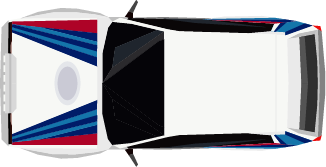
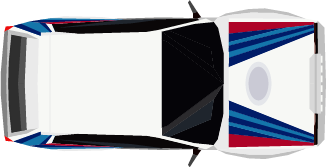
Title screen revamp

diff --git a/core/src/com/yopox/ld47/screens/Title.kt b/core/src/com/yopox/ld47/screens/Title.kt
@@ -9,38 +9,66 @@ import com.yopox.ld47.LD47
 import com.yopox.ld47.Resources
 import com.yopox.ld47.SoundManager
 import com.yopox.ld47.graphics.Button
-import com.yopox.ld47.graphics.Fonts.drawCentered
-import com.yopox.ld47.graphics.Fonts.fontTitle
 import ktx.graphics.use
+import kotlin.math.PI
+import kotlin.math.cos
+import kotlin.math.pow
+import kotlin.math.sin
 
 class Title(game: LD47) : Screen(game) {
 
     val background = Assets.getTexture(Resources.TITLE_BG)
+    val title = Assets.getTexture(Resources.TITLE_TITLE)
+    val sub = Assets.getTexture(Resources.TITLE_SUB)
+    val cars = arrayOf(Assets.getTexture(Resources.TITLE_CAR1), Assets.getTexture(Resources.TITLE_CAR2), Assets.getTexture(Resources.TITLE_CAR3))
+
+    var auto = cars.random()
+    var autoPos = -WIDTH / 2
+
+    var tick = 0
 
     init {
         buttons.add(
-                Button("START", Vector2(WIDTH / 2, HEIGHT / 4)) {
+                Button("START", Vector2(WIDTH / 2 - 120f, 100f)) {
                     game.setScreen<LevelSelection>()
+                }
+        )
+        buttons.add(
+                Button("OST", Vector2(WIDTH / 2 + 120f, 100f)) {
+                    //game.setScreen<LevelSelection>()
                 }
         )
     }
 
     override fun show() {
         super.show()
+        tick = 0
         SoundManager.play(Resources.OST_TITLE)
     }
 
     override fun render(delta: Float) {
+        tick += 1
+        autoPos += 6f + sin((autoPos + WIDTH / 2) / WIDTH * 2 * PI).toFloat() * 3f
+
         Gdx.gl.glClearColor(0.25f, 0.2f, 0.3f, 1f)
         Gdx.gl.glClear(GL30.GL_COLOR_BUFFER_BIT)
 
         batch.use { batch ->
             batch.draw(background, 0f, 0f)
+            batch.draw(title, WIDTH / 2 - title.width / 2, HEIGHT - 210f + sin(tick / 60f) * 15f)
+            batch.draw(sub, WIDTH / 2 - sub.width / 2, HEIGHT - 475f + sin(tick / 60f) * 15f)
+            batch.draw(auto, autoPos, 100f - auto.height / 2)
+
             buttons.forEach { button -> button.draw(batch) }
         }
 
         shapeRenderer.use(ShapeRenderer.ShapeType.Filled) { renderer ->
             buttons.forEach { button -> button.drawBorder(renderer) }
+        }
+
+        if (autoPos >= 3 * WIDTH / 2) {
+            auto = cars.random()
+            autoPos = -WIDTH
         }
     }
 
@@ -49,6 +77,8 @@ class Title(game: LD47) : Screen(game) {
     override fun keyTyped(character: Char): Boolean {
         when (character) {
             'm', 'M' -> SoundManager.mute()
+            ' ', 'l' -> game.setScreen<LevelSelection>()
+            //'o' -> game.setScreen<Ost>()
         }
         return true
     }

diff --git a/core/src/com/yopox/ld47/Assets.kt b/core/src/com/yopox/ld47/Assets.kt
@@ -35,7 +35,13 @@ enum class Resources {
     MALUS,
     GUI_BG,
     GUI_BG2,
-    TITLE_BG
+    TITLE_BG,
+    TITLE_TITLE,
+    TITLE_SUB,
+    TITLE_CAR1,
+    TITLE_CAR2,
+    TITLE_CAR3
+
 }
 
 object Assets {
@@ -58,7 +64,12 @@ object Assets {
             Resources.MALUS to "bonus/malus.png",
             Resources.GUI_BG to "gui_bg.png",
             Resources.GUI_BG2 to "gui_bg2.png",
-            Resources.TITLE_BG to "titlescreen/background.png"
+            Resources.TITLE_BG to "titlescreen/background.png",
+            Resources.TITLE_TITLE to "titlescreen/title.png",
+            Resources.TITLE_SUB to "titlescreen/subtitle.png",
+            Resources.TITLE_CAR1 to "titlescreen/cartitle1.png",
+            Resources.TITLE_CAR2 to "titlescreen/cartitle2.png",
+            Resources.TITLE_CAR3 to "titlescreen/cartitle3.png"
     )
 
     val bgms = mapOf(
